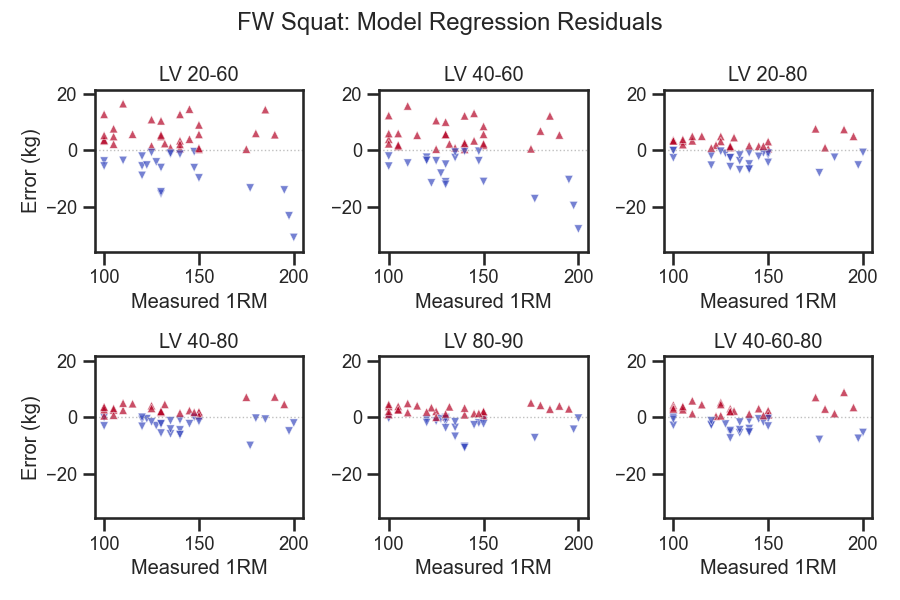
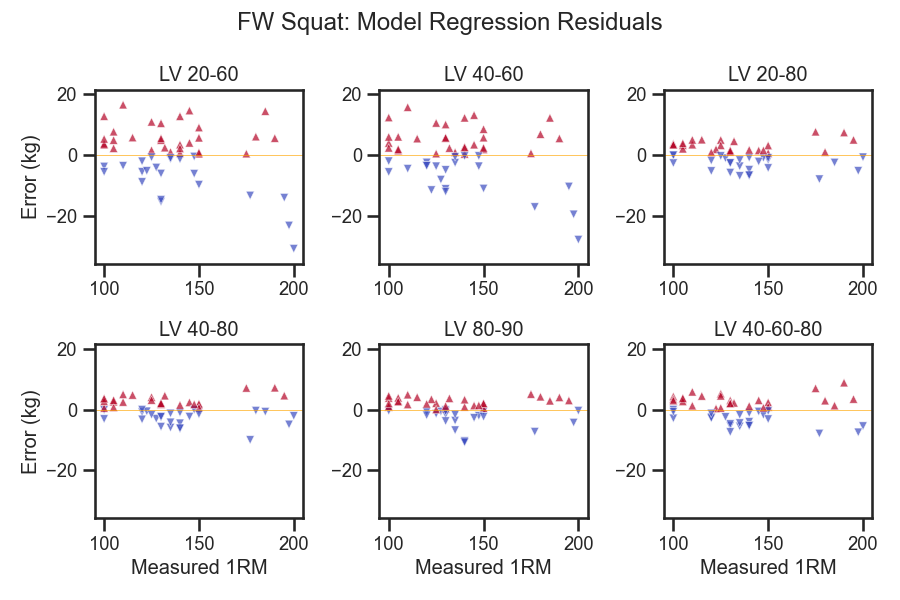
update figures for clarity

diff --git a/README.md b/README.md
@@ -23,7 +23,7 @@ This project is based on a previous study by [Balsalobre-Fernández and Kipp (20
 
 # Exploratory Data Analysis
 ## The Data Set
-Data for this project were provided by Dr. Carlos Balsalobre-Fernández from Universidad Autónoma de Madrid. Data were collected by *[name of authors who performed the experiments]* with 52 participants who each performed the FW squat and SM squat at various loads. Following a standardized warm up routine, participants perfored the exercise 1-2 repetitions with their maximal intended velocity starting with a light weight, then with progressively higher weight until reaching their 1 repetition maximum. A total of 6 loads were used per participant per exercise and participants rested between each load to allow fatigue to dissipate. There were 2 data sets (1 for each of the FW squat and SM squat), each with 52 rows (1 per participant). The columns are as follows:
+Data for this project were provided by Dr. Carlos Balsalobre-Fernández from Universidad Autónoma de Madrid. Data were collected by researchers from 52 participants who each performed the FW squat and SM squat at various loads. Following a standardized warm up routine, participants perfored the exercise 1-2 repetitions with their maximal intended velocity starting with a light weight, then with progressively higher weight until reaching their 1 repetition maximum. A total of 6 loads were used per participant per exercise and participants rested between each load to allow fatigue to dissipate. There were 2 data sets (1 for each of the FW squat and SM squat), each with 52 rows (1 per participant). The columns are as follows:
 * `Participant ID`
 * `Age`
 * `Mass`
@@ -76,9 +76,13 @@ Univariate distributions and bivariate correlations of the features used for mod
 
 
 
-FW squat | SM squat
---- | ---
-<img src="./output/figures/04 iteration FW pairplot.png" width=400> | <img src="./output/figures/04 iteration SM pairplot.png" width=400>
+*FW squat*
+
+<img src="./output/figures/04 iteration FW pairplot.png" width=400>
+ 
+*SM squat*
+
+<img src="./output/figures/04 iteration SM pairplot.png" width=400>
 
 Limitations of the data:
 * Results from Shapiro-Wilks tests indicated that variables are not normally distributed (p<0.05). It is likely that with a larger sample size, the data would have a normal distribution. I decided not to transform the data to to reduce skewness because it would make the results of the models less practical to apply for athletes and coaches. 
@@ -142,10 +146,10 @@ The first experiment of the project aimed to replicate the 5 models used in the 
 
 Model | Description | Model Independent Variable(s) 
 --- | ---- | ---
-Model 1 | Statistical linear regression | **individual** MVT
-Model 2 | Statistical linear regression | **mean group** MVT
-Model 3 | ML multilinear regression with ordinary least squares (OLS) | LV slope and LV intercept
-Model 4 | ML Lasso regression | LV slope and LV intercept
+Model 1: `Stat Ind MVT` | Statistical linear regression | **individual** MVT
+Model 2: `Stat Grp MVT` | Statistical linear regression | **mean group** MVT
+Model 3: `OLS` | ML multilinear regression with ordinary least squares (OLS) | LV slope and LV intercept
+Model 4: `Lasso` | ML Lasso regression | LV slope and LV intercept
 Model 5 | Neural network with 1 hidden layer of 10 nodes | LV slope and LV intercept
 
 The second experiment used the ML linear regression with OLS (Model 3) and random forest regression. 
@@ -359,17 +363,33 @@ As hypothesized, predictions had lowest error when at least one of the loads use
 
 
 # Conclusions
-**Machine learning linear regressions allow athletes to predict 1RM using submaximal testing simply based on the LV profile; no estimation of minimum velocity threshold or prior 1RM testing is required**. These ML models perform at least as equally well as the statistical regression models that require MVT, and are less likely to overestimate 1RM for a given participant. The OLS and Lasso linear regressions performed equally well to each other. Furthermore, LV profile can simply be estimated using two data points as long as one of the loads is at least ~80%.  The follow regression equations can be used to estimate 1RM using these models *[coefficients `a` and `b` to be filled in later]*:
+**Machine learning linear regressions allow athletes to predict 1RM using submaximal testing simply based on the LV profile; no estimation of minimum velocity threshold or prior 1RM testing is required**. These ML models perform at least as equally well as the statistical regression models that require MVT, and are less likely to overestimate 1RM for a given participant. The OLS and Lasso linear regressions performed equally well to each other. Furthermore, LV profile can simply be estimated using two data points as long as one of the loads is at least ~80%.  Based on results from experiment 1, the follow regression equations can be used to estimate 1RM using these models:
 
 Model | FW Squat | SM Squat
 --- | ---- | ---
-OLS | a × LV_{slope} + b × LV_{intercept} | a × LV_{slope} + b × LV_{intercept} 
-Lasso | a × LV_{slope} + b × LV_{intercept} | a × LV_{slope} + b × LV_{intercept}
+OLS | 0.6757 × LV_{slope} + 1.2618 × LV_{intercept} + 3.9407 | 0.5847 × LV_{slope} + 1.262 × LV_{intercept} - 7.6567
+Lasso | 0.6533 × LV_{slope} + 1.2438 × LV_{intercept} + 4.1046 | 0.5675 × LV_{slope} + 1.2467 × LV_{intercept} - 7.2121
 
 Given errors of these models, an athlete who wants to be conservative can subtract 2-3 kg (or more) from the estimated 1RM value.
 
 Using these trained models, web app has been created for users who want to use their load-velocity data to predict 1RM, or simply to compute and visualize the slope and intercept of their load-velocity curve. Users can input their data for 2-4 loads, and one of the train models will provide a prediction based on LV slope and LV intercept determine from the linear regression from the entered data. The URL for the web app is https://silvhua-lighthouse-capstone-project-srcapp-wafhso.streamlit.app/ 
-*[Provide details of the deployed models]*
+
+<details>
+<summary>Click for details on the app models </summary>
+
+<br>
+
+The app provides 1RM predictions using the trained `OLS` models. The number of data load-velocity data points provided by the user determines which model is used for prediction:
+
+Data points provided | Trained model | Model details
+--- | --- | ---
+2 | `LV 40-80` | `LV slope` and `LV intercept` were determined using loads at 40% and 80% of 1RM
+3 | `LV 40-80` | `LV slope` and `LV intercept` were determined using loads at 40%, 60%, and 80% of 1RM
+4 | `LV 40-80` | `LV slope` and `LV intercept` were determined using loads at 40%, 60%, 80%, and 90% of 1RM
+
+
+</details>
+<br>
 
 # Challenges
 The nature of most exercise science research is that it is challenging to recruit a large number of participants. After discussing with a program mentor about the poor performance of the neural network model, I decided to focus on linear regression models, as neural networks require thousands of samples to work well. At the same time, having prediction models that don't require neural networks makes their use more accessible for the population at large.
